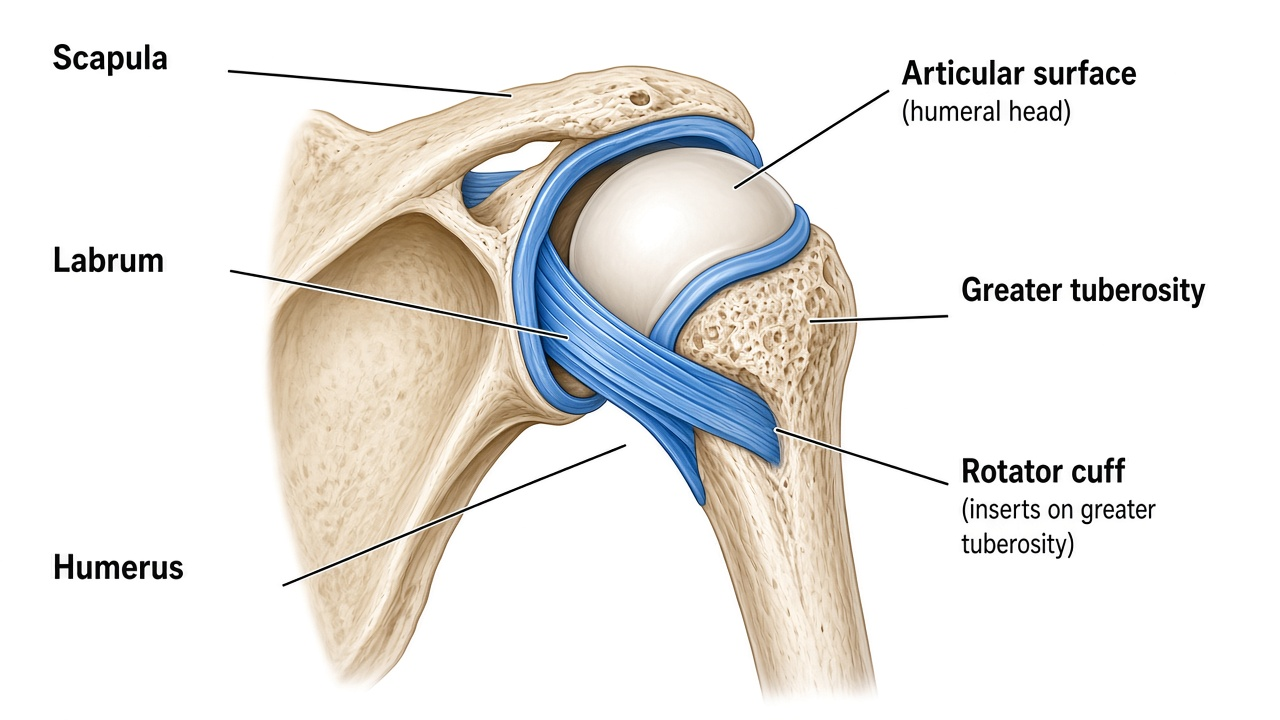
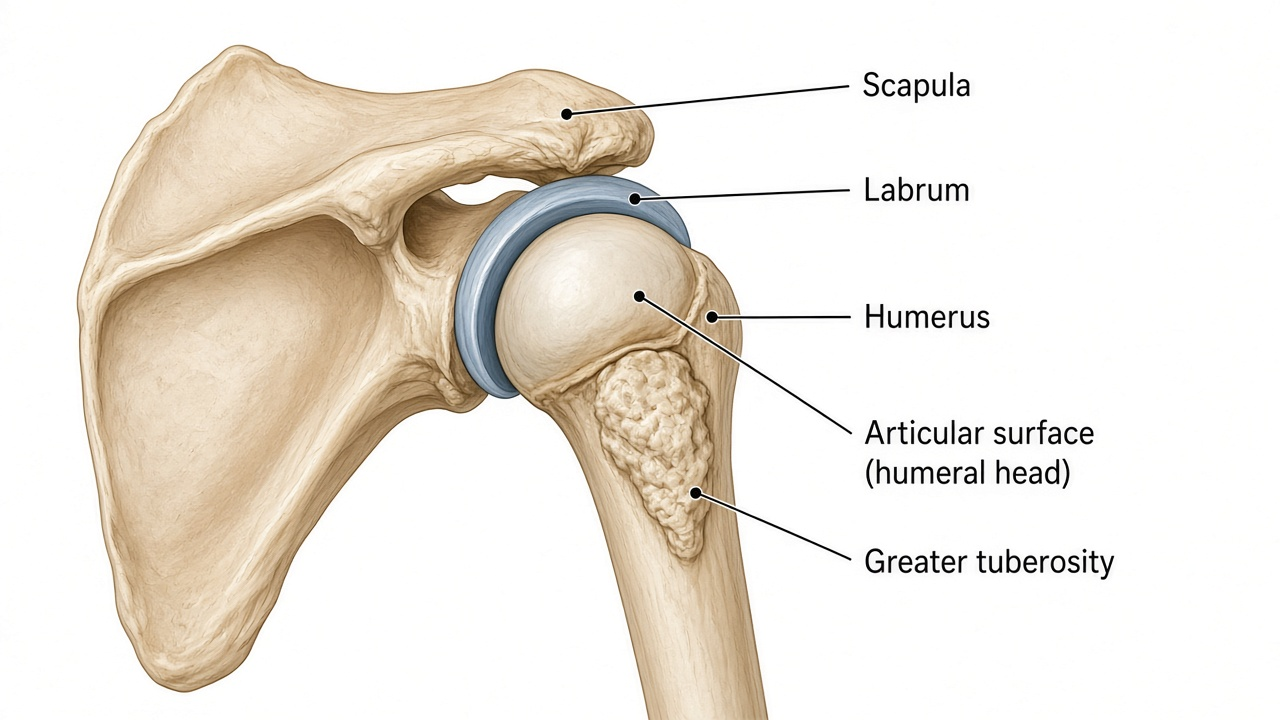
Shoulder diagram: remove rotator cuff bands, keep bony anatomy

diff --git a/shoulder.html b/shoulder.html
@@ -348,7 +348,7 @@ nav.primary-nav a.active{color:var(--ink)}
 
 <section class="section">
   <h2>What we operate on</h2>
-  <div class="diagram"><img src="assets/diagram-shoulder.png?v=3" alt="Shoulder joint diagram — ball, socket, cuff arc" width="960" height="768" loading="lazy"></div>
+  <div class="diagram"><img src="assets/diagram-shoulder.png?v=5" alt="Shoulder joint diagram — ball, socket, cuff arc" width="960" height="768" loading="lazy"></div>
   <p class="intro">Repair when tissue and goals allow. Replace — anatomic or reverse — when the joint is done.</p>
   <div class="grid"><article class="card"><h3>Rotator cuff repair</h3><p>Arthroscopic repair matched to tear pattern and your demand. Recovery is often slower than patients hope — strength and motion take deliberate rehab.</p>
         <p style="margin-top:12px"><strong style="color:var(--ink);font-size:13px">Recovery:</strong> <span>Sling protection early; meaningful strength often takes months. Demand level sets the finish line.</span></p>

diff --git a/index.html b/index.html
@@ -306,7 +306,7 @@ input,select,textarea,button{ font-size:16px; } /* prevent iOS input zoom */
   <div style="display:grid;grid-template-columns:repeat(3,1fr);gap:14px" class="diagram-row">
     <a href="knee.html" class="diagram"><img src="assets/diagram-knee.png?v=4" alt="Knee surgery in Dallas — joint diagram" width="400" height="320" loading="lazy"></a>
     <a href="hip.html" class="diagram"><img src="assets/diagram-hip.png" alt="Hip surgery in Dallas — joint diagram" width="400" height="320" loading="lazy"></a>
-    <a href="shoulder.html" class="diagram"><img src="assets/diagram-shoulder.png?v=3" alt="Shoulder surgery in Dallas — joint diagram" width="400" height="320" loading="lazy"></a>
+    <a href="shoulder.html" class="diagram"><img src="assets/diagram-shoulder.png?v=5" alt="Shoulder surgery in Dallas — joint diagram" width="400" height="320" loading="lazy"></a>
   </div>
 </section>
 
